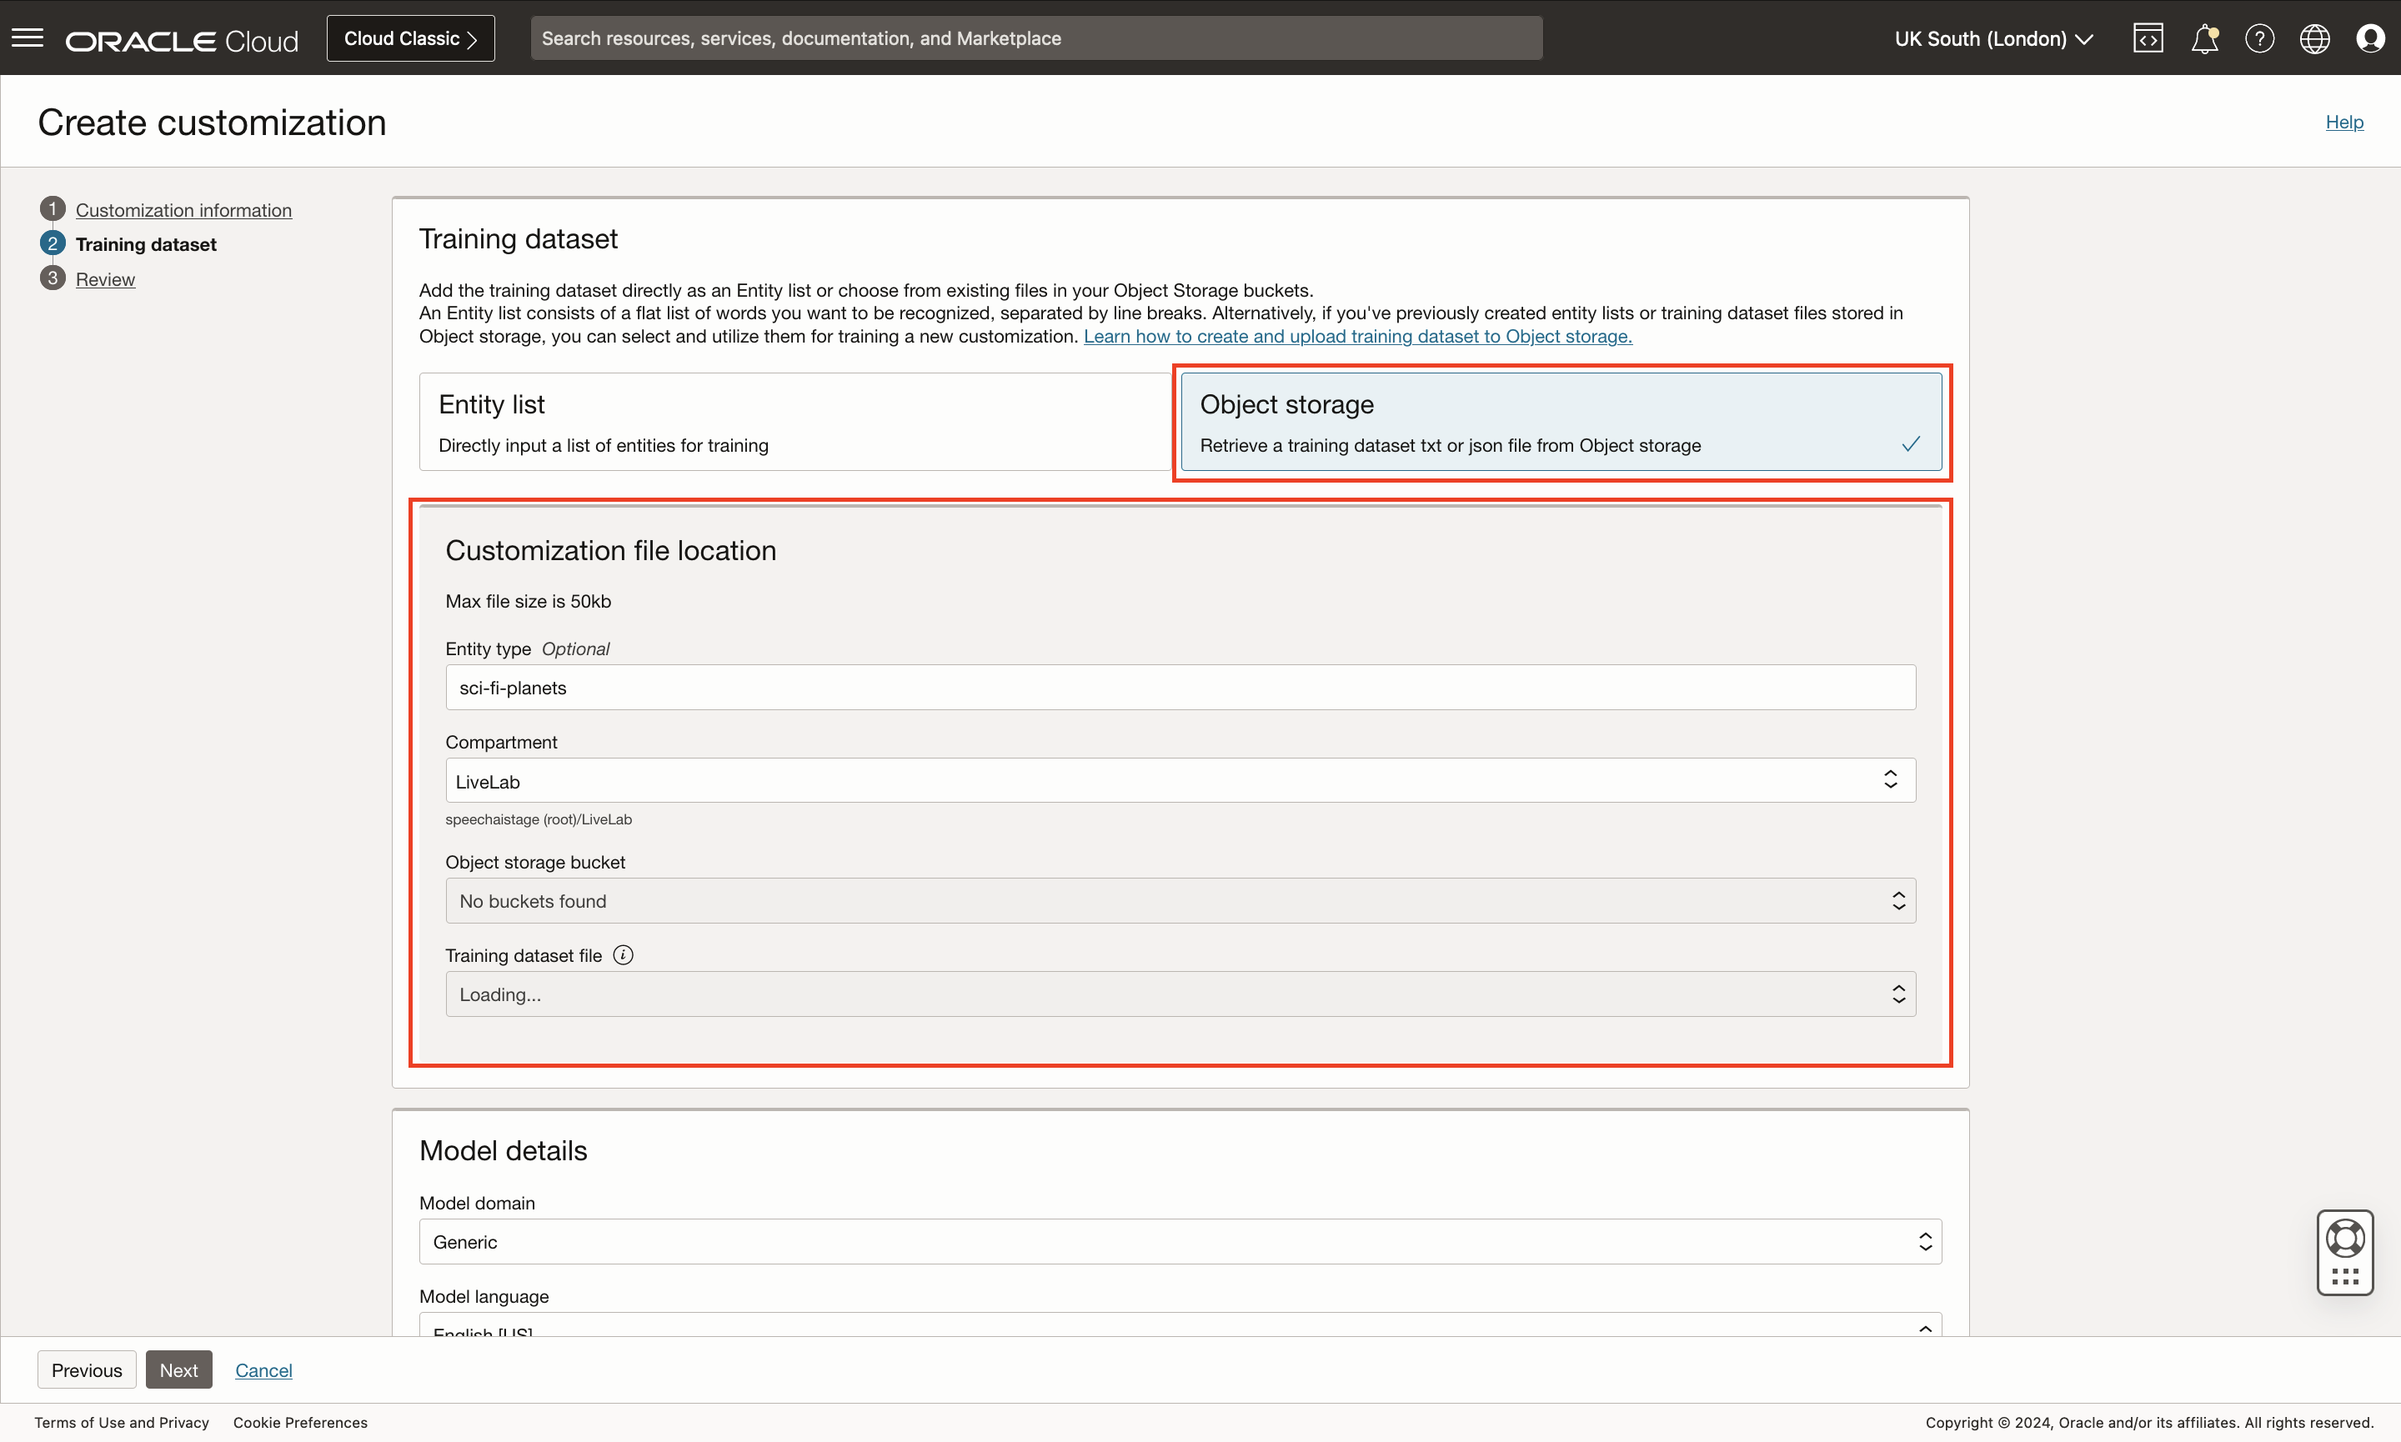
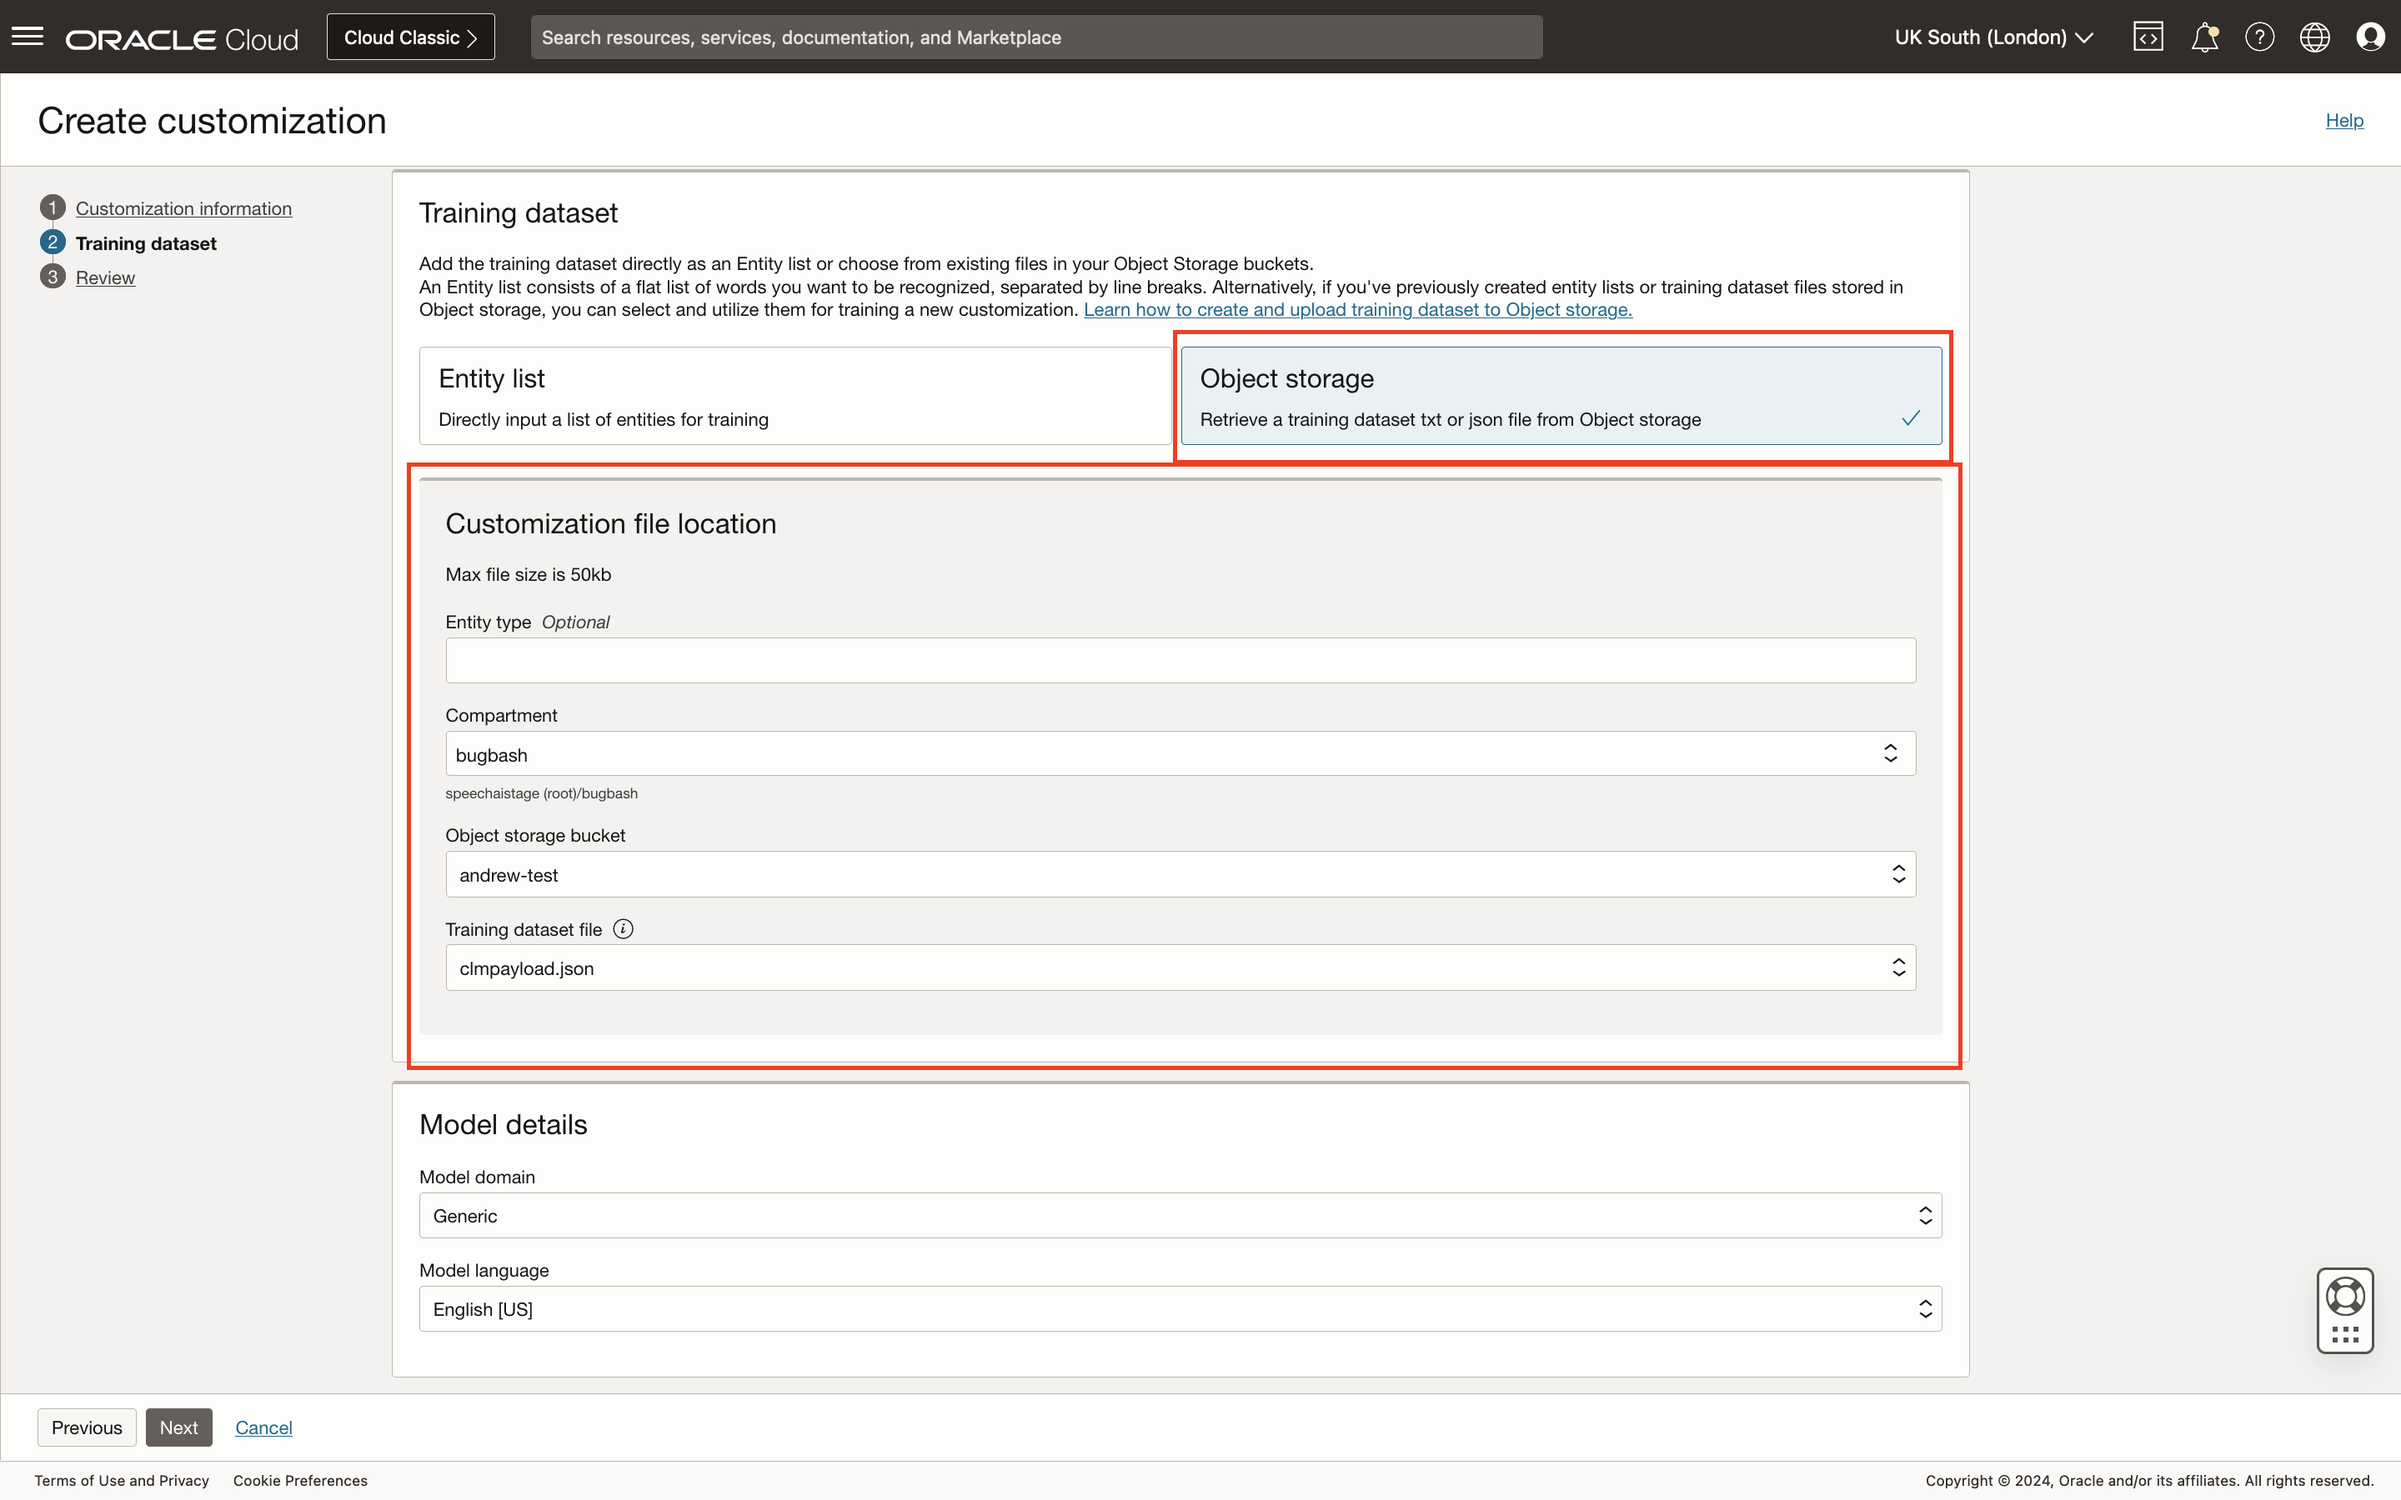
added object storage path and consolidated use customization task

diff --git a/oci-artificial-intelligence/ai-speech/customizations/customizations.md b/oci-artificial-intelligence/ai-speech/customizations/customizations.md
@@ -1,4 +1,4 @@
-# Lab 3: Create and manage customizations in OCI Console
+# Lab 3: Create and manage customizations using REST API and in OCI Console
 
 ## Introduction
 In this session, we will help users get familiar with customizations and how to create and manage them using the OCI Console
@@ -57,13 +57,19 @@ Under documentation you can find helpful links relevant to OCI speech service
     Alternatively, click <strong>Object storage</strong> to select predefined training entities from object storage
         ![Select entities](./images/object-storage-entity.png " ")
 
-    Configure model details, click next to move on to the <strong>review</strong> page
+    Configure model details
         ![Select entities](./images/model-details.png " ")
+
+    Click next to move on to the <strong>review</strong> page
 
 5. Review customization and create
 
     Look over your information and click <strong>create</strong> to finish creating your customizaiton
+    
+    Review page for customization created using entity list
         ![Review page](./images/review-customization.png " ")
+    Review page for customization created using object storage training dataset
+        ![Review page](./images/review-page-object-storage.png " ")
 
     After clicking create, you will be redirected to the customizations page where you will see your newly created customization
         ![List page](./images/view-created-customization.png " ")
@@ -96,18 +102,6 @@ To view your newly created customization, click on your customization's name fro
 
     From either the customization details page or list customizations page, click <strong>delete</strong> to delete your customization
         ![delete customization](./images/delete-customization.png " ")
-
-
-## Task 4: Using your customization in a live transcription session
-
-Click <strong>Live transcribe</strong> in the side menu on the left to access the live transcription page
-    ![Click live transcription](./images/click-live-transcribe.png " ")
-
-Check the <strong>Enable customization</strong> box and select your customization from the drop down
-    ![Job transcription standard format selection button](./images/enable-customization.png " ")
-
-Begin session and use your customization's entities
-
 
 
 Congratulations on completing this lab!

diff --git a/oci-artificial-intelligence/ai-speech/transcribe-live-audio/transcribe-live-audio.md b/oci-artificial-intelligence/ai-speech/transcribe-live-audio/transcribe-live-audio.md
@@ -1,4 +1,4 @@
-# Lab 2: Transcribe live audio with the console
+# Lab 2: Transcribe live audio with the console and SDK
 
 ## Introduction
 In this session, we will help users get familiar with OCI Speech live transcribe and teach them how to use our services via the cloud console.
@@ -65,7 +65,9 @@ To change transcription parameters, look to the <strong>Configure transcription<
 
 ## Task 4: Enabling a customization
 
-Select the <strong>Enable customizations</strong> box in the "Configure transcriptions" menu on the right to select a customization to include in your transcription session.
+First, either ensure there is an active customization in your compartment, or create one. Please refer to Lab 3 for guidance
+
+Next, select the <strong>Enable customizations</strong> box in the "Configure transcriptions" menu on the right to select a customization to include in your transcription session.
     ![Enable customizations](./images/enable-customizations.png " ")
 
 Specify a compartment and select a customization to include in your next transcription session
